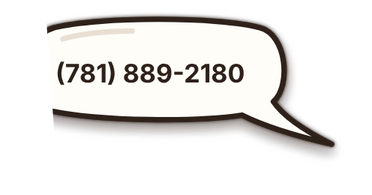
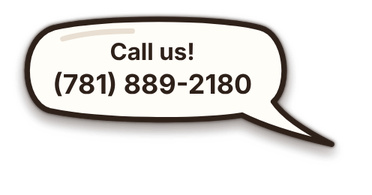
Phone bubble says 'Call us!' and is no longer clipped at the cup edge
Claude-Session: https://claude.ai/code/session_01EfzXebvTKqAFox93T972dt

Changed region(s): [[0.1478, 0.2154, 0.6801, 0.4923], [0.0296, 0.1231, 0.1478, 0.6462]]

diff --git a/CLAUDE.md b/CLAUDE.md
@@ -6,7 +6,7 @@ One-screen landing page for **dualorigingroup.com**, served by GitHub Pages from
 - `index.html` — the whole page: HTML, CSS, inline SVG logo, animations. No build step.
 - `images/cup.webp` (1236w), `cup-900.webp`, `cup-640.webp` — what browsers actually load (responsive `<picture>`, preloaded, `fetchpriority=high`). `images/cup.png` is the fallback. A ~1KB blurred copy is inlined in CSS as the `.cupbox` background so the cup outline appears instantly; JS removes it on load.
 - `images/cup.png` — the to-go cup contact card as ONE flattened image (lid, sleeve, muted sage-green stamp, and a slightly tilted paper receipt pinned to the sleeve by the stamp: Sam and Gio's color photos side by side in thin dark frames on a soft sage `#DCE6DE` background, names "SAM" / "GIO" in bold spaced monospace under them, and a copper espresso-cup email icon on each photo; dashed tear line; corgi line item "PAO PAO" (the corgi's name, bold spaced monospace) / "HEAD OF SECURITY" / "Guards the beans" x1, with the text vertically centered beside the photo (the bubbles sit to the left, so nothing on the receipt needs to move for them); footer "BREWED IN MA" with a small flag hung beside it at cap height (the text stays centered) / smaller "© 2026 DOG LLC"). 1236×1377. The speech bubble is NOT in this image.
-- `images/bubble.webp` / `bubble.png` — the corgi's cartoon speech bubble with the phone number (image only): white blob, bold dark outline, sitting to the LEFT of the corgi with a short chunky comic tail pointing sideways to its mouth; it may extend past the cup's left edge (it lives in `.names`, outside the receipt's clip-path). Hidden until the stamp's inner circle (LET'S TALK + phone icon) is clicked: `<button class="telbtn">` toggles `<img id="bub" class="bubimg">` (pop-in from the tail; closes on outside click or Escape). The bubble itself is not clickable (no enlarge, no dialer). The bubble images are lazy-loaded (`data-src`/`data-srcset`) on first use, so they are not fetched on page load. The phone number is never in HTML/JS, not even scrambled: tap-to-call is intentionally not implemented. The email addresses are NOT shown in the image; the espresso icons are the only way to email.
+- `images/bubble.webp` / `bubble.png` — the corgi's cartoon speech bubble reading "Call us!" above the phone number (image only): white blob, bold dark outline, sitting to the LEFT of the corgi with a short chunky comic tail pointing sideways to its mouth; it may extend past the cup's left edge (it lives in `.names`, outside the receipt's clip-path). Hidden until the stamp's inner circle (LET'S TALK + phone icon) is clicked: `<button class="telbtn">` toggles `<img id="bub" class="bubimg">` (pop-in from the tail; closes on outside click or Escape). The bubble itself is not clickable (no enlarge, no dialer). The bubble images are lazy-loaded (`data-src`/`data-srcset`) on first use, so they are not fetched on page load. The phone number is never in HTML/JS, not even scrambled: tap-to-call is intentionally not implemented. The email addresses are NOT shown in the image; the espresso icons are the only way to email.
 - Corgi message bubble (`.bubmsg`, live HTML text over the same bubble outline, same left-side short-tail shape, 1.45× the phone bubble's width on desktop and 1.22× on phones (≤600px, via a media query) so it never touches the screen edge; after any cup rebuild re-anchor it from the `.bubimg` box keeping the same tail tip): when an espresso email button is clicked, the corgi says "Fetched / {Name}'s email!" then pops out and back in with "Special / delivery!" (~1.7s + ~2.2s), then pops out. If the clipboard copy fails it only says the second line. The copy happens immediately on click, but `mailto:` is opened only after the corgi has spoken (~2.3s, or ~0.9s when only the second line shows) so visitors actually see the bubbles; repeat clicks reset the timer. Text never includes an address. The text is mirrored into the hidden `.toast` live region for screen readers. Opening the phone bubble hides it, and vice versa. Keep messages to two short lines (~13 characters each) or they overflow on phones.
 - `images/wordmark-light.png` — "DUAL ORIGIN GROUP" wordmark (Lora, cream, D/O/G slightly brighter).
 - `images/corgi.png` — corgi cutout (the badge itself is now baked into `cup.png`).
@@ -33,7 +33,7 @@ One-screen landing page for **dualorigingroup.com**, served by GitHub Pages from
 `index.html` has many appended override blocks at the end of `<style>` (with `!important`) from iterative design. Later rules win. When changing sizing, prefer adding/adjusting the media-query blocks near the end rather than editing early rules. Spacing rhythm is set by the LAST block ("consistent vertical rhythm"): `main/.wrap/.copy` are `display:contents`, three `<i class="sp">` spacers (logo→h1, blurb→lid, cup→bottom of page) flex in body's column, and the cup width `--cw` grows with screen height up to `--cap`. Tune per breakpoint via `--k` (height reserved for everything except the cup), `--g` (base gap) and `--glogo` (logo gap, gets 2 shares of leftover). h1→blurb stays a fixed 10px. If a change makes the header/text taller, raise `--k` for that band or the page will scroll.
 
 ## Regenerating the cup image
-`cup.png` is rendered from a private HTML source (not in this repo because it contains the contact text). The source kit lives in the **private** repo `dualorigingroup/website-assets` (`cup-source.html`, `tools/cupshot.js`, README with steps); attach it to the session to edit the cup. Never copy its contents into this public repo. Process: open the source HTML in headless Chrome at 1440×900, deviceScaleFactor 4, hide everything except the cup (lid, cup body, sleeve, stamp, names), disable animations and any glow/pseudo-elements, screenshot the bounding box of the visible `.lid,.cta,.kraft,.names,.tape,.cb,.bub,.rc` (zero-size/hidden elements are skipped) with 24px transparent padding (`node tools/cupshot.js` in `website-assets` does all of this) and `omit_background`, resize to 1236px wide, save as `images/cup.png`, then update the `height` attribute on `<img class="cupimg">`, regenerate `cup.webp`/`cup-900.webp`/`cup-640.webp` (quality 82, alpha 90) and the inlined blurred placeholder (32px wide, WebP data URI in the `.cupbox` rule). `node tools/cupshot.js cup-raw.png bubble-raw.png` writes the cup without the bubble plus the bubble alone, and prints positions as % of the cup image: email icons → `.mailbtn` `left`/`top`; stamp inner circle (`stamp` cx/cy/d) → `.telbtn` `left`/`top`/`width` (the tap area covers the whole LET'S TALK inner circle, not just the phone icon); bubble box → `.bubimg` `left`/`top`/`width`/`transform-origin` (the tail tip, from the bubble's `data-tip`). Resize the bubble by the same factor as the cup (1236 ÷ raw width). If the cup's height/width ratio changes, update the `/ 1.25` divisor in the `--cw` formula (visible cup height ÷ `.mugwrap` width) and re-tune `--k`. The image must have fully transparent edges so the page's glow fades smoothly.
+`cup.png` is rendered from a private HTML source (not in this repo because it contains the contact text). The source kit lives in the **private** repo `dualorigingroup/website-assets` (`cup-source.html`, `tools/cupshot.js`, README with steps); attach it to the session to edit the cup. Never copy its contents into this public repo. Process: open the source HTML in headless Chrome at 1440×900, deviceScaleFactor 4, hide everything except the cup (lid, cup body, sleeve, stamp, names), disable animations and any glow/pseudo-elements, screenshot the bounding box of the visible `.lid,.cta,.kraft,.names,.tape,.cb,.bub,.rc` (zero-size/hidden elements are skipped) with 24px transparent padding (`node tools/cupshot.js` in `website-assets` does all of this) and `omit_background`, resize to 1236px wide, save as `images/cup.png`, then update the `height` attribute on `<img class="cupimg">`, regenerate `cup.webp`/`cup-900.webp`/`cup-640.webp` (quality 82, alpha 90) and the inlined blurred placeholder (32px wide, WebP data URI in the `.cupbox` rule). `node tools/cupshot.js cup-raw.png bubble-raw.png` writes the cup without the bubble plus the bubble alone, (it disables clip-paths while rendering the bubble, since the bubble extends past the cup's tapered clip), and prints positions as % of the cup image: email icons → `.mailbtn` `left`/`top`; stamp inner circle (`stamp` cx/cy/d) → `.telbtn` `left`/`top`/`width` (the tap area covers the whole LET'S TALK inner circle, not just the phone icon); bubble box → `.bubimg` `left`/`top`/`width`/`transform-origin` (the tail tip, from the bubble's `data-tip`). Resize the bubble by the same factor as the cup (1236 ÷ raw width). If the cup's height/width ratio changes, update the `/ 1.25` divisor in the `--cw` formula (visible cup height ÷ `.mugwrap` width) and re-tune `--k`. The image must have fully transparent edges so the page's glow fades smoothly.
 
 ## Workflow
 - Develop on the session's working branch; never push to `main` directly.
